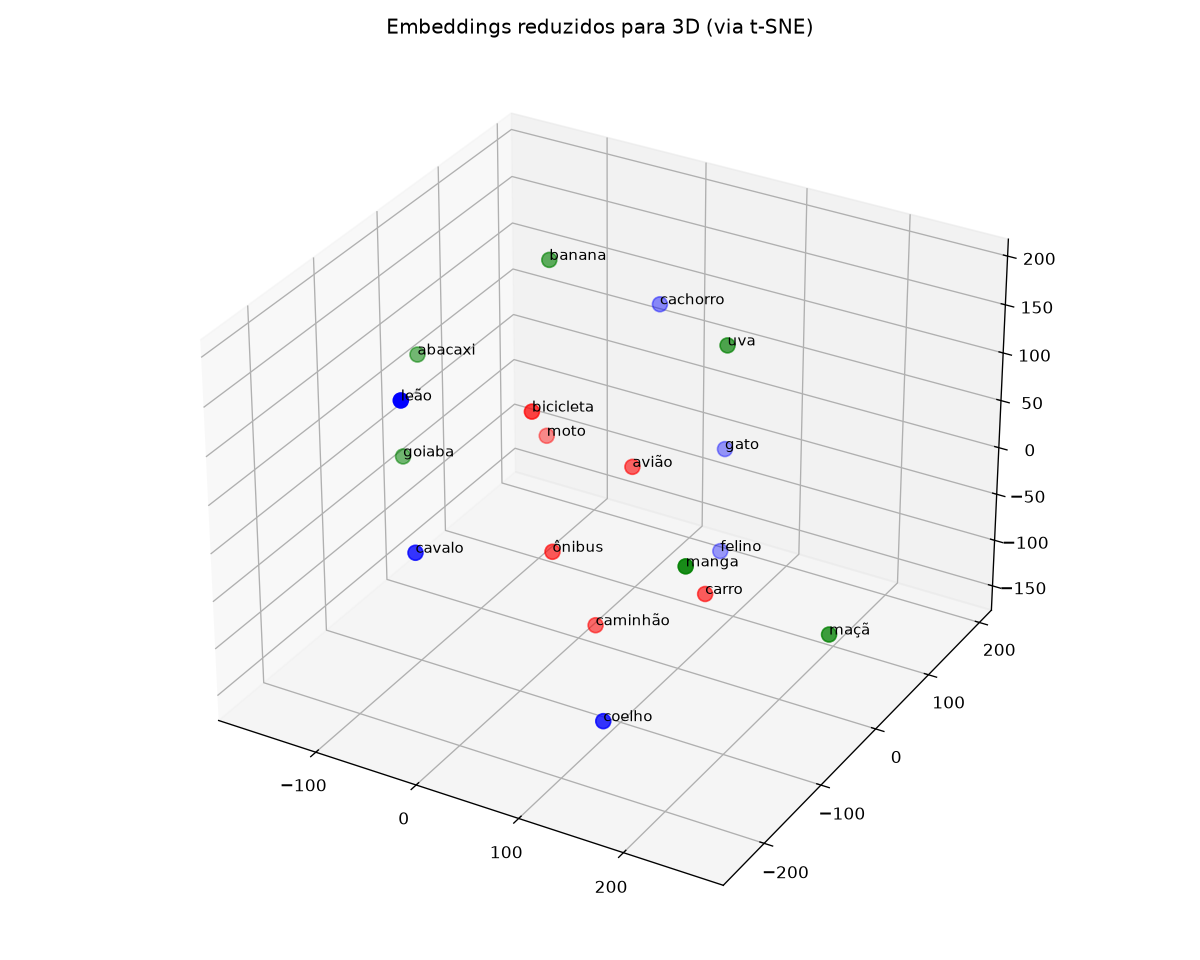
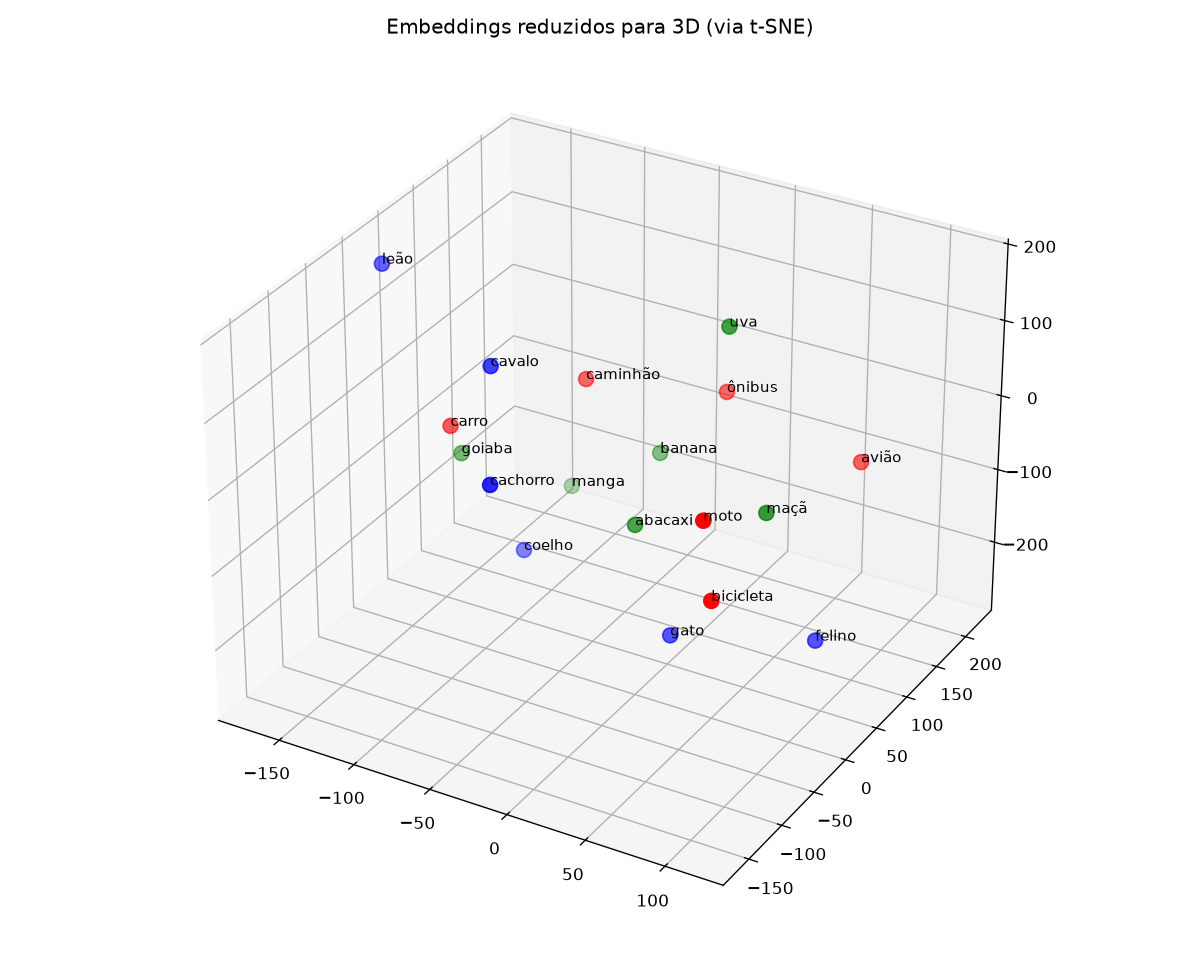
AULA_03: busca semantica, ancora e limpeza de texto

diff --git a/AULA_03/busca_semantica.py b/AULA_03/busca_semantica.py
@@ -1,0 +1,105 @@
+import os
+import re
+import glob
+import requests
+import numpy as np
+from dotenv import load_dotenv
+
+load_dotenv()
+API_KEY = os.getenv("OPENROUTER_API_KEY")
+
+def por_tamanho_fixo(texto, tamanho=500, overlap=50):
+    """Chunk de tamanho fixo com sobreposição — o padrão de RAG de produção.
+    Não depende da formatação do documento."""
+    texto = " ".join(texto.split())          # normaliza espaços/quebras
+    chunks = []
+    i = 0
+    while i < len(texto):
+        chunks.append(texto[i:i + tamanho])
+        i += tamanho - overlap                # avança, mas volta `overlap` pra trás
+    return chunks
+
+
+def gerar_embedding(textos, model="openai/text-embedding-3-small", lote=100):
+    """Gera embeddings em lotes de `lote` para não estourar o limite da API."""
+    vetores = []
+    for i in range(0, len(textos), lote):
+        pedaco = textos[i:i + lote]
+        resposta = requests.post(
+            "https://openrouter.ai/api/v1/embeddings",
+            headers={"Authorization": f"Bearer {API_KEY}", "Content-Type": "application/json"},
+            json={"model": model, "input": pedaco},
+        )
+        resposta.raise_for_status()
+        vetores.extend(item["embedding"] for item in resposta.json()["data"])
+    return vetores
+
+
+def cosseno(a, b):
+    a, b = np.array(a), np.array(b)
+    return np.dot(a, b) / (np.linalg.norm(a) * np.linalg.norm(b))
+
+
+def carregar_texto(pasta="../AULA_02/markdown"):
+    """Lê e concatena todos os .md da pasta."""
+    caminhos = glob.glob(os.path.join(pasta, "*.md"))
+    if not caminhos:
+        raise FileNotFoundError(f"Nenhum .md em {pasta}. Rode de dentro de AULA_03.")
+    partes = []
+    for caminho in caminhos:
+        with open(caminho, encoding="utf-8") as f:
+            partes.append(f.read())
+    return "\n\n".join(partes)
+
+
+def por_linha(texto):
+    return [l.strip() for l in texto.split("\n") if l.strip()]
+
+def por_paragrafo(texto):
+    blocos = re.split(r"\n\s*\n", texto)   
+    paragrafos = []
+    for bloco in blocos:
+        p = " ".join(linha.strip() for linha in bloco.split("\n") if linha.strip())
+        if p:
+            paragrafos.append(p)
+    return paragrafos
+
+def por_capitulo(texto):
+    partes = re.split(r"\n(?=#{1,6}\s)", texto)
+    return [p.strip() for p in partes if p.strip()]
+
+
+def buscar(query, trechos, top=3):
+    """Embedda a query + todos os trechos e devolve os `top` de maior cosseno."""
+    vetores = gerar_embedding([query] + trechos)
+    v_query, v_trechos = vetores[0], vetores[1:]
+    scores = [(cosseno(v_query, v), t) for v, t in zip(v_trechos, trechos)]
+    scores.sort(key=lambda x: x[0], reverse=True)
+    return scores[:top]
+
+def limpar_texto(texto):
+    """Junta só palavras quebradas por hífen de fim de linha (com espaço antes do -)."""
+    # "desenvolvi -mento" tem espaço antes do hífen; "médico-paciente" não tem
+    texto = re.sub(r"(\w+)\s+-\s*(\w+)", r"\1\2", texto)
+    return texto
+
+
+query = "O que é 'Autonomia e opacidade algorítmica'?"
+texto = carregar_texto()
+texto = limpar_texto(texto)
+
+
+
+print(f"QUERY: {query}\n")
+
+for nome, funcao in [("LINHA", por_linha), ("PARÁGRAFO", por_paragrafo),
+                     ("CAPÍTULO", por_capitulo), ("TAMANHO FIXO", por_tamanho_fixo)]:
+    trechos = funcao(texto)
+    print("=" * 75)
+    print(f"ESTRATÉGIA: {nome}  —  {len(trechos)} trechos")
+    print("=" * 75)
+    for score, trecho in buscar(query, trechos):
+        preview = " ".join(trecho.split())[:200]
+        print(f"\n  score = {score:.4f}")
+        print(f"  {preview}")
+    print()

diff --git a/AULA_03/similaridade.py b/AULA_03/similaridade.py
@@ -1,26 +1,59 @@
+import os
+import requests
 import numpy as np
-import matplotlib.pyplot as plt
-from sklearn.manifold import TSNE
+from dotenv import load_dotenv
 
-termos = [
-    "gato", "felino", "cachorro", "leão", "cavalo", "coelho",      # animais
-    "carro", "caminhão", "moto", "ônibus", "avião", "bicicleta",   # veículos
-    "banana", "maçã", "goiaba", "uva", "manga", "abacaxi",         # frutas
-]
-cores = ["blue"]*6 + ["red"]*6 + ["green"]*6
+load_dotenv()
+API_KEY = os.getenv("OPENROUTER_API_KEY")
 
-vetores = np.array(gerar_embedding(termos))
 
-# t-SNE separa vizinhança melhor que PCA. perplexity tem que ser < nº de pontos.
-coords = TSNE(n_components=2, perplexity=5, random_state=42,
-              init="pca").fit_transform(vetores)
+def gerar_embedding(textos, model="openai/text-embedding-3-small"):
+    resposta = requests.post(
+        "https://openrouter.ai/api/v1/embeddings",
+        headers={
+            "Authorization": f"Bearer {API_KEY}",
+            "Content-Type": "application/json",
+        },
+        json={"model": model, "input": textos},
+    )
+    resposta.raise_for_status()
+    return [item["embedding"] for item in resposta.json()["data"]]
 
-plt.figure(figsize=(9, 7))
-plt.scatter(coords[:, 0], coords[:, 1], c=cores, s=80)
-for (x, y), termo in zip(coords, termos):
-    plt.annotate(termo, (x, y), fontsize=10, xytext=(6, 4),
-                 textcoords="offset points")
-plt.title("Embeddings reduzidos para 2D (via t-SNE)")
-plt.tight_layout()
-plt.savefig("AULA_03/mapa_tsne.png", dpi=120)
-plt.show()
+
+def euclidiana(a, b):
+    a, b = np.array(a), np.array(b)
+    return np.linalg.norm(a - b)          # MENOR = mais perto
+
+
+def cosseno(a, b):
+    a, b = np.array(a), np.array(b)
+    return np.dot(a, b) / (np.linalg.norm(a) * np.linalg.norm(b))  # MAIOR = mais perto
+
+
+def ranquear(consulta, corpus, metrica=cosseno):
+    """Ordena o corpus pela proximidade à consulta. Uma chamada de API só."""
+    vetores = gerar_embedding([consulta] + corpus)
+    v_consulta, v_corpus = vetores[0], vetores[1:]
+    scores = [(termo, metrica(v_consulta, v)) for termo, v in zip(corpus, v_corpus)]
+    scores.sort(key=lambda x: x[1], reverse=(metrica is cosseno))
+    return scores
+
+
+mapa = ["felino", "cachorro", "carro", "caminhão", "moto", "banana", "maçã", "goiaba"]
+
+print("=== Consulta: 'gato' — por COSSENO (maior = mais perto) ===")
+for termo, s in ranquear("gato", mapa, cosseno):
+    print(f"  {s:.4f}  {termo}")
+
+print("\n=== Consulta: 'gato' — por EUCLIDIANA (menor = mais perto) ===")
+for termo, s in ranquear("gato", mapa, euclidiana):
+    print(f"  {s:.4f}  {termo}")
+
+
+# ---------- Lab 2: prova que cosseno pega SIGNIFICADO, não palavra igual ----------
+pergunta = "como devolver um produto?"
+trecho   = "política de reembolso em 7 dias"
+
+va, vb = gerar_embedding([pergunta, trecho])
+print(f"\ncosseno(pergunta, trecho) = {cosseno(va, vb):.4f}")
+print(f"busca literal ('pergunta' está dentro do trecho?): {pergunta in trecho}")

diff --git a/AULA_03/ancora.py b/AULA_03/ancora.py
@@ -1,0 +1,42 @@
+import os
+import requests
+import numpy as np
+from dotenv import load_dotenv
+
+load_dotenv()
+API_KEY = os.getenv("OPENROUTER_API_KEY")
+
+
+def gerar_embedding(textos, model="openai/text-embedding-3-small"):
+    resposta = requests.post(
+        "https://openrouter.ai/api/v1/embeddings",
+        headers={"Authorization": f"Bearer {API_KEY}", "Content-Type": "application/json"},
+        json={"model": model, "input": textos},
+    )
+    resposta.raise_for_status()
+    return [item["embedding"] for item in resposta.json()["data"]]
+
+
+def cosseno(a, b):
+    a, b = np.array(a), np.array(b)
+    return np.dot(a, b) / (np.linalg.norm(a) * np.linalg.norm(b))
+
+
+frase_ancora = "O cachorro correu no parque e brincou com a bola."
+frases_comparacao = [
+    ("Similar (mesmo sentido, palavras diferentes)", "Um cão estava correndo no jardim e brincando com seu brinquedo."),
+    ("Relacionado (mesmo contexto de animais)", "O gato dormiu na almofada da sala durante toda a tarde."),
+    ("Diferente (outro domínio - economia)", "A taxa de juros do banco central subiu dois pontos percentuais."),
+    ("Oposto/Negação", "Nenhum animal esteve no parque e o cão permaneceu preso em casa."),
+]
+
+# uma chamada só: âncora na posição 0
+todas = [frase_ancora] + [f for _, f in frases_comparacao]
+vetores = gerar_embedding(todas)
+v_ancora, v_resto = vetores[0], vetores[1:]
+
+print(f"Âncora: {frase_ancora}\n")
+for (rotulo, frase), v in zip(frases_comparacao, v_resto):
+    s = cosseno(v_ancora, v)
+    print(f"  {s:.4f}  [{rotulo}]")
+    print(f"          {frase}\n")
